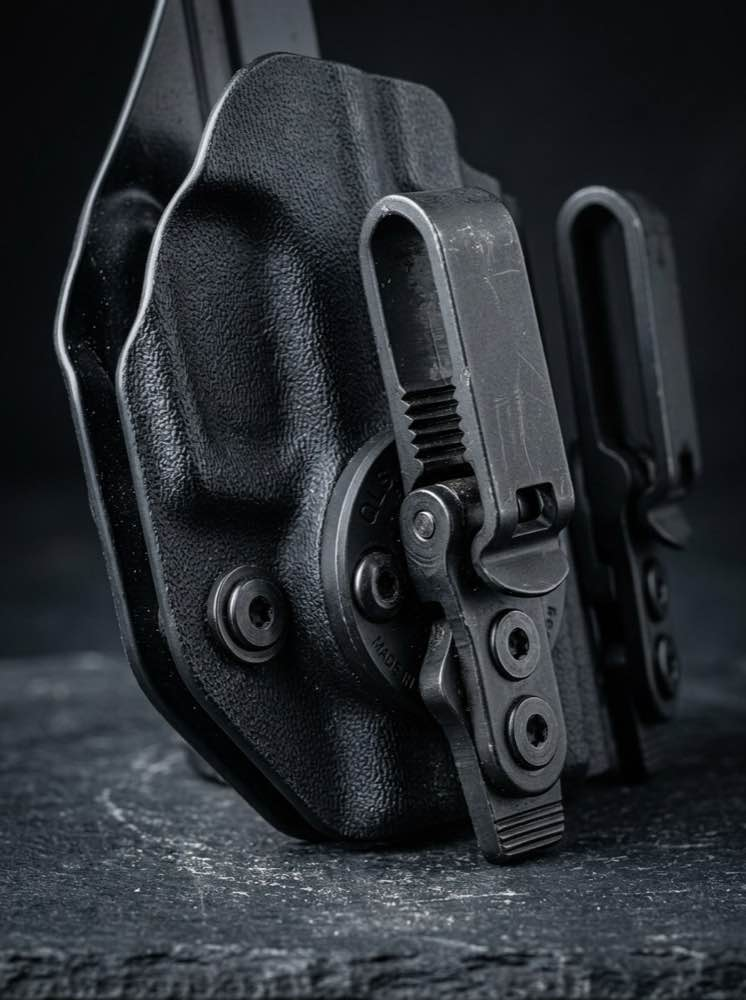
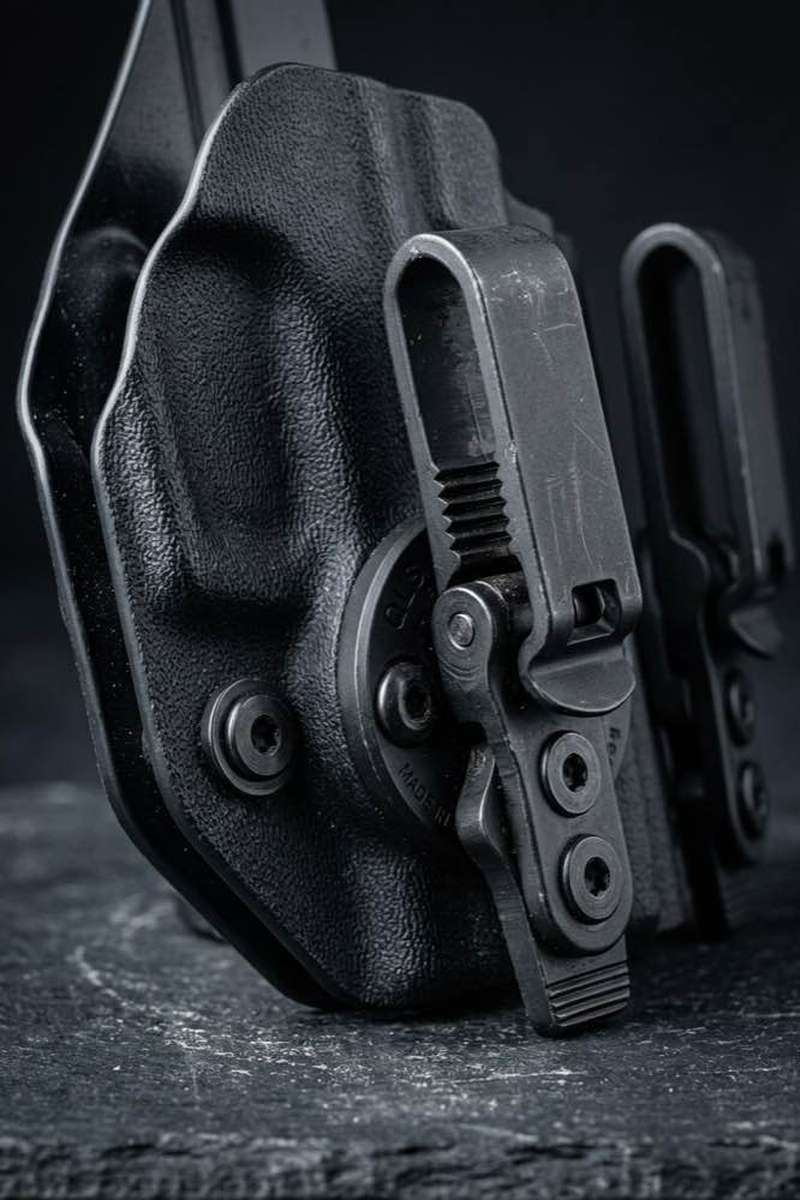
Phase 20: Match Specs & Features layout to provided client screenshot, crop and optimize material images to strict sizes

diff --git a/V4.html b/V4.html
@@ -501,70 +501,93 @@
     <!-- Specs & Features Section -->
     <section id="specs-features" class="bg-charcoal text-white py-32 border-b border-white/5 relative">
         <div class="bg-texture-layer opacity-20"></div>
-        <div class="max-w-7xl mx-auto px-6 md:px-12 relative z-10 flex flex-col lg:flex-row gap-16">
+        <div class="max-w-6xl mx-auto px-6 md:px-12 relative z-10 gs-reveal-up">
             
-            <div class="lg:w-2/3 gs-reveal-up">
+            <div class="text-center mb-16">
                 <p class="text-brand font-mono text-sm tracking-widest uppercase mb-4">By the Numbers</p>
-                <h2 class="font-display text-5xl md:text-6xl font-bold uppercase mb-6 leading-none">Specs & Features</h2>
-                <p class="text-white/60 text-lg mb-12 max-w-2xl font-light">Every material, dimension, and feature spec'd out — so you know exactly what's riding on your hip.</p>
+                <h2 class="font-display text-5xl md:text-6xl font-bold uppercase mb-6 leading-none">Specs & <span class="text-brand">Features</span></h2>
+                <p class="text-white/60 text-lg max-w-2xl mx-auto font-light">Every material, dimension, and feature spec'd out — so you know exactly what's riding on your hip.</p>
+            </div>
                 
-                <div class="grid grid-cols-1 md:grid-cols-2 gap-12">
-                    <div>
-                        <h3 class="font-display text-2xl font-bold uppercase mb-6 border-b border-white/10 pb-4">Features</h3>
-                        <ul class="space-y-4 text-white/80 font-light">
-                            <li class="flex items-start"><span class="text-brand mr-3">▪</span>Bombproof, genuine Dupont 500 Cordura</li>
-                            <li class="flex items-start"><span class="text-brand mr-3">▪</span>Tegris: Milliki Mills 6-layer</li>
-                            <li class="flex items-start"><span class="text-brand mr-3">▪</span>Berry Compliant Spacer mesh</li>
-                            <li class="flex items-start"><span class="text-brand mr-3">▪</span>DCC clips</li>
-                            <li class="flex items-start"><span class="text-brand mr-3">▪</span>Index Thermoplastic hardware</li>
-                            <li class="flex items-start"><span class="text-brand mr-3">▪</span>N42 bar magnets</li>
+            <div class="grid grid-cols-1 md:grid-cols-2 gap-8 mb-20">
+                <!-- Features Card -->
+                <div class="border border-white/10 rounded-2xl overflow-hidden bg-white/5">
+                    <div class="bg-brand/10 p-6 md:p-8 flex items-center gap-4 border-b border-white/10">
+                        <div class="w-12 h-12 rounded-xl bg-brand/20 flex items-center justify-center text-brand shrink-0">
+                            <svg class="w-6 h-6" fill="none" stroke="currentColor" viewBox="0 0 24 24"><path stroke-linecap="round" stroke-linejoin="round" stroke-width="2" d="M5 3v4M3 5h4M6 17v4m-2-2h4m5-16l2.286 6.857L21 12l-5.714 2.143L13 21l-2.286-6.857L5 12l5.714-2.143L13 3z"></path></svg>
+                        </div>
+                        <div>
+                            <span class="text-white/50 text-xs font-mono uppercase tracking-widest block mb-1">What's Included</span>
+                            <h3 class="font-display text-2xl font-bold uppercase tracking-tight">Features</h3>
+                        </div>
+                    </div>
+                    <div class="p-6 md:p-8">
+                        <ul class="space-y-0">
+                            <li class="flex items-center gap-4 py-4 border-b border-white/5 last:border-0"><div class="w-5 h-5 rounded-full bg-brand/20 flex items-center justify-center text-brand shrink-0"><svg class="w-3 h-3" fill="none" stroke="currentColor" viewBox="0 0 24 24"><path stroke-linecap="round" stroke-linejoin="round" stroke-width="3" d="M5 13l4 4L19 7"></path></svg></div><span class="text-white/80 font-light">Bombproof, genuine Dupont 500 Cordura</span></li>
+                            <li class="flex items-center gap-4 py-4 border-b border-white/5 last:border-0"><div class="w-5 h-5 rounded-full bg-brand/20 flex items-center justify-center text-brand shrink-0"><svg class="w-3 h-3" fill="none" stroke="currentColor" viewBox="0 0 24 24"><path stroke-linecap="round" stroke-linejoin="round" stroke-width="3" d="M5 13l4 4L19 7"></path></svg></div><span class="text-white/80 font-light">Tegris: Milliki Mills 6-layer</span></li>
+                            <li class="flex items-center gap-4 py-4 border-b border-white/5 last:border-0"><div class="w-5 h-5 rounded-full bg-brand/20 flex items-center justify-center text-brand shrink-0"><svg class="w-3 h-3" fill="none" stroke="currentColor" viewBox="0 0 24 24"><path stroke-linecap="round" stroke-linejoin="round" stroke-width="3" d="M5 13l4 4L19 7"></path></svg></div><span class="text-white/80 font-light">Berry Compliant Spacer mesh</span></li>
+                            <li class="flex items-center gap-4 py-4 border-b border-white/5 last:border-0"><div class="w-5 h-5 rounded-full bg-brand/20 flex items-center justify-center text-brand shrink-0"><svg class="w-3 h-3" fill="none" stroke="currentColor" viewBox="0 0 24 24"><path stroke-linecap="round" stroke-linejoin="round" stroke-width="3" d="M5 13l4 4L19 7"></path></svg></div><span class="text-white/80 font-light">DCC clips</span></li>
+                            <li class="flex items-center gap-4 py-4 border-b border-white/5 last:border-0"><div class="w-5 h-5 rounded-full bg-brand/20 flex items-center justify-center text-brand shrink-0"><svg class="w-3 h-3" fill="none" stroke="currentColor" viewBox="0 0 24 24"><path stroke-linecap="round" stroke-linejoin="round" stroke-width="3" d="M5 13l4 4L19 7"></path></svg></div><span class="text-white/80 font-light">Index Thermoplastic hardware</span></li>
+                            <li class="flex items-center gap-4 py-4 border-b border-white/5 last:border-0"><div class="w-5 h-5 rounded-full bg-brand/20 flex items-center justify-center text-brand shrink-0"><svg class="w-3 h-3" fill="none" stroke="currentColor" viewBox="0 0 24 24"><path stroke-linecap="round" stroke-linejoin="round" stroke-width="3" d="M5 13l4 4L19 7"></path></svg></div><span class="text-white/80 font-light">N42 bar magnets</span></li>
                         </ul>
                     </div>
-                    <div>
-                        <h3 class="font-display text-2xl font-bold uppercase mb-6 border-b border-white/10 pb-4">Specifications</h3>
-                        <dl class="space-y-4 text-white/80 font-light text-sm">
-                            <div class="flex justify-between border-b border-white/5 pb-2">
-                                <dt class="text-white/50 uppercase font-mono">Shell</dt>
-                                <dd class="text-right">Tegris 6-layer</dd>
+                </div>
+
+                <!-- Specifications Card -->
+                <div class="border border-white/10 rounded-2xl overflow-hidden bg-white/5">
+                    <div class="bg-brand/10 p-6 md:p-8 flex items-center gap-4 border-b border-white/10">
+                        <div class="w-12 h-12 rounded-xl bg-brand/20 flex items-center justify-center text-brand shrink-0">
+                            <svg class="w-5 h-5" fill="none" stroke="currentColor" viewBox="0 0 24 24"><path stroke-linecap="round" stroke-linejoin="round" stroke-width="2" d="M10.325 4.317c.426-1.756 2.924-1.756 3.35 0a1.724 1.724 0 002.573 1.066c1.543-.94 3.31.826 2.37 2.37a1.724 1.724 0 001.065 2.572c1.756.426 1.756 2.924 0 3.35a1.724 1.724 0 00-1.066 2.573c.94 1.543-.826 3.31-2.37 2.37a1.724 1.724 0 00-2.572 1.065c-.426 1.756-2.924 1.756-3.35 0a1.724 1.724 0 00-2.573-1.066c-1.543.94-3.31-.826-2.37-2.37a1.724 1.724 0 00-1.065-2.572c-1.756-.426-1.756-2.924 0-3.35a1.724 1.724 0 001.066-2.573c-.94-1.543.826-3.31 2.37-2.37.996.608 2.296.07 2.572-1.065z"></path><path stroke-linecap="round" stroke-linejoin="round" stroke-width="2" d="M15 12a3 3 0 11-6 0 3 3 0 016 0z"></path></svg>
+                        </div>
+                        <div>
+                            <span class="text-white/50 text-xs font-mono uppercase tracking-widest block mb-1">Technical Detail</span>
+                            <h3 class="font-display text-2xl font-bold uppercase tracking-tight">Specifications</h3>
+                        </div>
+                    </div>
+                    <div class="p-6 md:p-8">
+                        <dl class="space-y-0">
+                            <div class="flex justify-between items-center py-4 border-b border-white/5 last:border-0">
+                                <dt class="text-white/50 text-xs uppercase font-mono tracking-wider w-1/3">Shell</dt>
+                                <dd class="text-right text-white font-medium w-2/3">Tegris 6-layer</dd>
                             </div>
-                            <div class="flex justify-between border-b border-white/5 pb-2">
-                                <dt class="text-white/50 uppercase font-mono">Outer Material</dt>
-                                <dd class="text-right">Dupont 500 Cordura</dd>
+                            <div class="flex justify-between items-center py-4 border-b border-white/5 last:border-0">
+                                <dt class="text-white/50 text-xs uppercase font-mono tracking-wider w-1/3">Outer Material</dt>
+                                <dd class="text-right text-white font-medium w-2/3">Dupont 500 Cordura</dd>
                             </div>
-                            <div class="flex justify-between border-b border-white/5 pb-2">
-                                <dt class="text-white/50 uppercase font-mono">Retention</dt>
-                                <dd class="text-right">N42 Bar Magnets + Friction</dd>
+                            <div class="flex justify-between items-center py-4 border-b border-white/5 last:border-0">
+                                <dt class="text-white/50 text-xs uppercase font-mono tracking-wider w-1/3">Retention</dt>
+                                <dd class="text-right text-white font-medium w-2/3">N42 Bar Magnets + Friction</dd>
                             </div>
-                            <div class="flex justify-between border-b border-white/5 pb-2">
-                                <dt class="text-white/50 uppercase font-mono">Clips</dt>
-                                <dd class="text-right">DCC 1 Series (rotational)</dd>
+                            <div class="flex justify-between items-center py-4 border-b border-white/5 last:border-0">
+                                <dt class="text-white/50 text-xs uppercase font-mono tracking-wider w-1/3">Clips</dt>
+                                <dd class="text-right text-white font-medium w-2/3">DCC 1 Series (rotational)</dd>
                             </div>
-                            <div class="flex justify-between border-b border-white/5 pb-2">
-                                <dt class="text-white/50 uppercase font-mono">Weight</dt>
-                                <dd class="text-right">4 oz</dd>
+                            <div class="flex justify-between items-center py-4 border-b border-white/5 last:border-0">
+                                <dt class="text-white/50 text-xs uppercase font-mono tracking-wider w-1/3">Weight</dt>
+                                <dd class="text-right text-white font-medium w-2/3">4 oz</dd>
                             </div>
-                            <div class="flex justify-between border-b border-white/5 pb-2">
-                                <dt class="text-white/50 uppercase font-mono">Lead Time</dt>
-                                <dd class="text-right text-brand">10–15 Business Days</dd>
+                            <div class="flex justify-between items-center py-4 border-b border-white/5 last:border-0">
+                                <dt class="text-white/50 text-xs uppercase font-mono tracking-wider w-1/3">Lead Time</dt>
+                                <dd class="text-right text-white font-medium w-2/3">10–15 Business Days</dd>
                             </div>
                         </dl>
                     </div>
                 </div>
             </div>
 
-            <!-- Right side large numbers callout -->
-            <div class="lg:w-1/3 flex flex-col justify-center gap-12 border-l-0 lg:border-l border-white/10 pl-0 lg:pl-16 gs-reveal-up">
+            <!-- Bottom large numbers -->
+            <div class="grid grid-cols-3 gap-6 text-center max-w-3xl mx-auto">
                 <div>
-                    <div class="text-7xl font-display font-bold text-white mb-2 leading-none">4<span class="text-brand text-5xl">oz</span></div>
-                    <div class="font-mono text-sm uppercase tracking-widest text-white/50">Total Weight</div>
+                    <div class="text-5xl md:text-7xl font-display font-bold text-brand mb-2 leading-none">4<span class="text-4xl md:text-5xl">oz</span></div>
+                    <div class="font-mono text-[10px] md:text-xs uppercase tracking-widest text-white/50">Total Weight</div>
                 </div>
                 <div>
-                    <div class="text-7xl font-display font-bold text-white mb-2 leading-none">N<span class="text-brand text-5xl">42</span></div>
-                    <div class="font-mono text-sm uppercase tracking-widest text-white/50">Magnet Grade</div>
+                    <div class="text-5xl md:text-7xl font-display font-bold text-brand mb-2 leading-none">N42</div>
+                    <div class="font-mono text-[10px] md:text-xs uppercase tracking-widest text-white/50">Magnet Grade</div>
                 </div>
                 <div>
-                    <div class="text-7xl font-display font-bold text-white mb-2 leading-none">6</div>
-                    <div class="font-mono text-sm uppercase tracking-widest text-white/50">Tegris Layers</div>
+                    <div class="text-5xl md:text-7xl font-display font-bold text-brand mb-2 leading-none">6</div>
+                    <div class="font-mono text-[10px] md:text-xs uppercase tracking-widest text-white/50">Tegris Layers</div>
                 </div>
             </div>
             

diff --git a/crop_materials.py b/crop_materials.py
@@ -1,0 +1,47 @@
+import os
+from PIL import Image
+
+images = [
+    "assets/opt/material_cordura.jpg",
+    "assets/opt/material_tegris.jpg",
+    "assets/opt/material_mesh.jpg",
+    "assets/opt/material_clips.jpg",
+    "assets/opt/material_fasteners.jpg",
+    "assets/opt/material_magnets.jpg",
+    "assets/cinematic_holster.jpg"
+]
+
+for img_path in images:
+    if os.path.exists(img_path):
+        img = Image.open(img_path)
+        
+        # Target size for slider images: 800x1200
+        # Wait, for cinematic_holster it's a wide hero background! We shouldn't crop cinematic_holster to 2:3!
+        if "cinematic_holster" in img_path:
+            # Maybe just resize it down to 1920px wide?
+            w, h = img.size
+            if w > 1920:
+                new_h = int(1920 * h / w)
+                img = img.resize((1920, new_h), Image.Resampling.LANCZOS)
+                img.save(img_path, "JPEG", quality=60)
+                print(f"Resized {img_path} to 1920w")
+        else:
+            # Crop to 800x1200 for material cards
+            w, h = img.size
+            target_aspect = 800 / 1200.0
+            aspect = w / h
+            if aspect > target_aspect:
+                # Image is too wide
+                new_w = int(target_aspect * h)
+                offset = (w - new_w) // 2
+                img = img.crop((offset, 0, offset + new_w, h))
+            else:
+                # Image is too tall
+                new_h = int(w / target_aspect)
+                offset = (h - new_h) // 2
+                img = img.crop((0, offset, w, offset + new_h))
+            
+            img = img.resize((800, 1200), Image.Resampling.LANCZOS)
+            img.save(img_path, "JPEG", quality=60)
+            print(f"Cropped and resized {img_path} to 800x1200")
+
